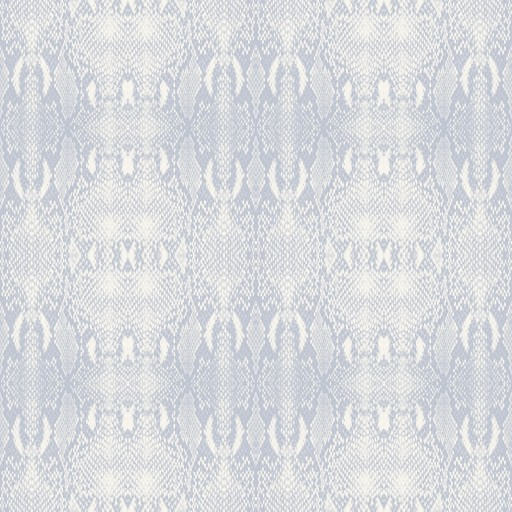
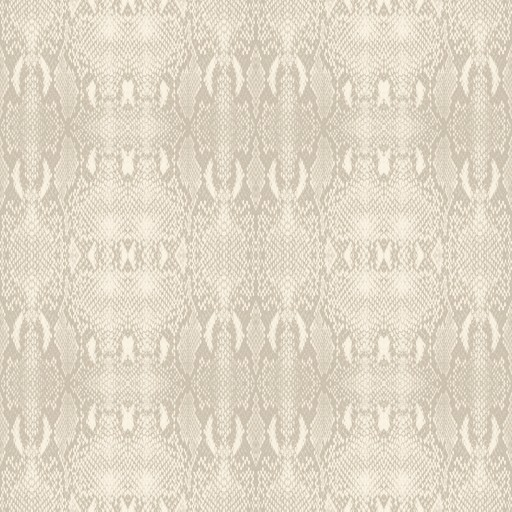
Make Shesha more lifelike
- Skin retinted from cool lavender to warm ivory with soft taupe markings
- The coil is a slightly flattened oval, flatter underneath, with finer
  scales, pale belly plates with dark seams, and soft bands along the back
- Real shadows: a warm key light from the side casts shadows from the
  hoods and coils onto the body (shadow maps on every device tier)
- Contact shadow baked into the geometry where one coil rests on
  another and where the necks rise out of the body; ambient light
  pulls less on Shesha, so his form reads
- A cool rim light from behind; the old blue fill is now neutral
- Quieter ruby gems, warmer eyes, natural mouth lines, fewer sparkles

diff --git a/js/cosmos.js b/js/cosmos.js
@@ -40,7 +40,7 @@ const rnd=(a,b)=>a+Math.random()*(b-a);
 // lights
 const ambient=new THREE.AmbientLight(0xffffff,.55); scene.add(ambient);
 const sunLight=new THREE.DirectionalLight(0xfff0d8,1.8); scene.add(sunLight);
-const fill=new THREE.PointLight(0x88aaff,600,140,1.6); fill.position.set(0,-310,40); scene.add(fill);
+const fill=new THREE.PointLight(0xd6deff,320,140,1.6); fill.position.set(0,-310,40); scene.add(fill);
 
 // ---- the real sky: NASA SVS Deep Star Maps 2020 (Hipparcos-2, Tycho-2, Gaia DR2) ----
 const NOISE=`
@@ -407,19 +407,37 @@ loka(-5*S,50,{A:'#d6fff6',B:'#2dd4bf',C:'#00302b',arms:5,twist:2.2,speed:-.005,d
 loka(-6*S,50,{A:'#ffc4b4',B:'#e02a2a',C:'#220004',arms:2,twist:4.4,speed:-.004,dust:.95,core:.7,bright:.5,hole:.1,seed:16,gems:50});
 loka(-7*S,50,{A:'#e6f6ff',B:'#4cc9ff',C:'#24104e',arms:3,twist:3.0,speed:-.004,dust:.7,core:.6,bright:.6,hole:.08,seed:17,gems:520});
 
-// Ananta Shesha. The seven hooded heads are cut from "King Cobra" by Anthony Yanez (CC BY 4.0) and retinted to moon-white;
+// Ananta Shesha. The seven hooded heads are cut from "King Cobra" by Anthony Yanez (CC BY 4.0) and retinted to ivory;
 // the coils are generated: one body that rises at the cosmic axis and tapers, turn by turn, to the tip of the tail.
 let sheshaTick=null;
 { const base=-8.5*S;
+  const camA=STOPS.find(s=>s.id==='shesha').ang, F=new THREE.Vector3(Math.sin(camA),0,Math.cos(camA)), side=new THREE.Vector3(F.z,0,-F.x);
   const NT={ skinA:tex('naga_skin_a',true), skinB:tex('naga_skin_b',true), norA:tex('naga_nor_a',false), norB:tex('naga_nor_b',false) };
-  const skin=(map,nor,color,glow=.07,side=THREE.FrontSide,bump=1.2)=>{
-    const o={ color, map, normalMap:nor, normalScale:new THREE.Vector2(bump,bump), roughness:.4, metalness:.06, envMap:goldEnv, envMapIntensity:.3,
-              emissive:new THREE.Color('#2c4386'), emissiveMap:map, emissiveIntensity:glow, side };
-    return lowTier ? new THREE.MeshStandardMaterial(o)
-      : new THREE.MeshPhysicalMaterial({ ...o, clearcoat:.45, clearcoatRoughness:.3, iridescence:.7, iridescenceIOR:1.3, iridescenceThicknessRange:[160,480],
-          sheen:.3, sheenRoughness:.5, sheenColor:new THREE.Color('#cfe8ff') }); };
-  const coilMat=skin(NT.skinA,NT.norA,'#b6c0d6');
-  const frontMat=skin(NT.skinA,NT.norA,'#c4cce0',.07,THREE.DoubleSide,.4), backMat=skin(NT.skinB,NT.norB,'#7f8eb8',.05,THREE.DoubleSide,.8), headMat=skin(NT.skinB,NT.norB,'#b4bed6',.07,THREE.DoubleSide,.8);
+  const SCUTES=12;   // belly plates per body-circumference of length
+  // snake skin: ivory scales under a light glossy coat. Each geometry also carries per-vertex contact shadow (ao),
+  // how much it faces down (belly), and distance along the body (along), which the shader uses for the belly plates and banding.
+  const skin=(map,nor,color,{side:sd=THREE.FrontSide,bump=1.1,coil=false}={})=>{
+    const o={ color, map, normalMap:nor, normalScale:new THREE.Vector2(bump,bump), roughness:.36, metalness:0, envMap:goldEnv, envMapIntensity:.26, side:sd };
+    const m = lowTier ? new THREE.MeshStandardMaterial(o)
+      : new THREE.MeshPhysicalMaterial({ ...o, clearcoat:.32, clearcoatRoughness:.24, iridescence:.2, iridescenceIOR:1.3, iridescenceThicknessRange:[220,420],
+          sheen:.16, sheenRoughness:.6, sheenColor:new THREE.Color('#f3e6cf') });
+    m.onBeforeCompile=sh=>{
+      sh.vertexShader=sh.vertexShader.replace('#include <common>','#include <common>\nattribute float ao, belly, along;\nvarying float vAo, vBelly, vAlong;')
+        .replace('#include <begin_vertex>','#include <begin_vertex>\nvAo=ao; vBelly=belly; vAlong=along;');
+      sh.fragmentShader=sh.fragmentShader.replace('#include <common>','#include <common>\nvarying float vAo, vBelly, vAlong;')
+        .replace('#include <map_fragment>',`#include <map_fragment>
+        ${coil?`{ float f=fract(vAlong*${SCUTES}.0), seam=smoothstep(0.0,0.14,f)*(1.0-smoothstep(0.84,1.0,f));
+          vec3 plate=vec3(0.93,0.89,0.80)*(0.74+0.26*seam);                                  // the wide belly plates, with dark seams between them
+          float band=smoothstep(0.3,0.7,0.5+0.5*sin(vAlong*0.85+2.0*sin(vAlong*0.21)));    // soft pale-and-taupe bands along the back
+          diffuseColor.rgb*=mix(1.0,0.8,band*(1.0-vBelly));
+          diffuseColor.rgb=mix(diffuseColor.rgb,plate,vBelly); }`:''}`)
+        .replace('#include <aomap_fragment>','#include <aomap_fragment>\n  reflectedLight.indirectDiffuse*=vAo*0.7; reflectedLight.indirectSpecular*=mix(1.0,vAo,0.7);');
+    };
+    m.customProgramCacheKey=()=>coil?'naga-coil':'naga';   // the coil's shader differs from the heads'
+    return m; };
+  const coilMat=skin(NT.skinA,NT.norA,'#cfc5b2',{coil:true});
+  const frontMat=skin(NT.skinA,NT.norA,'#d8cfbe',{side:THREE.DoubleSide,bump:.45}), backMat=skin(NT.skinB,NT.norB,'#a8987f',{side:THREE.DoubleSide,bump:.8}),
+        headMat=skin(NT.skinB,NT.norB,'#c7bba6',{side:THREE.DoubleSide,bump:.8});
 
   // the body: up the axis from the neck, then spiralling outward and down
   const TOP=base+13, HS=1.3, cp=[new THREE.Vector3(0,TOP,0),new THREE.Vector3(0,TOP-4.5,0),new THREE.Vector3(3,base+4.2,1.8)];
@@ -429,38 +447,64 @@ let sheshaTick=null;
   const radiusAt=s=>{ const cap=3, R0=5.6, neck=16, R1=4; if(s<cap) return R0*Math.sqrt(Math.max(0,1-((cap-s)/cap)**2));
     if(s<neck) return R0+(R1-R0)*(s-cap)/(neck-cap);
     const u=(s-neck)/(LEN-neck); return u<.86 ? R1-(R1-2.2)*u/.86 : 2.2*Math.pow(Math.max(0,1-(u-.86)/.14),.7)+.06; };
-  function taperTube(segs,radial,k){
-    const fr=curve.computeFrenetFrames(segs,false), P=new THREE.Vector3(), N=new THREE.Vector3(), n=(segs+1)*(radial+1);
-    const pos=new Float32Array(n*3), nor=new Float32Array(n*3), uv=new Float32Array(n*2), idx=[]; let along=0, prev=0;
-    for(let i=0;i<=segs;i++){ const t=i/segs, s=t*LEN, r=radiusAt(s); along+=(s-prev)/(2*Math.PI*Math.max(r,1.2))*k; prev=s; curve.getPointAt(t,P);
-      for(let j=0;j<=radial;j++){ const v=j/radial*Math.PI*2, o=i*(radial+1)+j;
-        N.copy(fr.normals[i]).multiplyScalar(-Math.cos(v)).addScaledVector(fr.binormals[i],Math.sin(v)).normalize();
-        pos[o*3]=P.x+N.x*r; pos[o*3+1]=P.y+N.y*r; pos[o*3+2]=P.z+N.z*r; nor[o*3]=N.x; nor[o*3+1]=N.y; nor[o*3+2]=N.z; uv[o*2]=j/radial; uv[o*2+1]=along; } }
+  // a slightly flattened body, flatter still underneath, with its belly turned down on the coils and toward the viewer
+  // where the body rears up (as a cobra's does)
+  function coilGeometry(segs,radial,kTex){
+    const P=new THREE.Vector3(), T=new THREE.Vector3(), D=new THREE.Vector3(), U=new THREE.Vector3(), W=new THREE.Vector3(), N=new THREE.Vector3(), DOWN=new THREE.Vector3(0,-1,0);
+    const n=(segs+1)*(radial+1), pos=new Float32Array(n*3), nor=new Float32Array(n*3), uv=new Float32Array(n*2), alg=new Float32Array(n), bel=new Float32Array(n), idx=[];
+    const spine=[]; let along=0, prev=0;
+    for(let i=0;i<=segs;i++){ const t=i/segs, s=t*LEN, r=radiusAt(s); along+=(s-prev)/(2*Math.PI*Math.max(r,1.2)); prev=s;
+      curve.getPointAt(t,P); curve.getTangentAt(t,T); spine.push([P.x,P.y,P.z,r,s]);
+      D.copy(DOWN).lerp(F,THREE.MathUtils.smoothstep(Math.abs(T.y),.55,.9)).normalize();
+      U.copy(D).addScaledVector(T,-D.dot(T)).normalize().negate(); W.crossVectors(T,U).normalize();
+      for(let j=0;j<=radial;j++){ const v=j/radial*Math.PI*2, cx=Math.cos(v), sy=Math.sin(v), o=i*(radial+1)+j;
+        const w=r*1.1, h=r*(sy<0?.8:.92);
+        pos[o*3]=P.x+W.x*cx*w+U.x*sy*h; pos[o*3+1]=P.y+W.y*cx*w+U.y*sy*h; pos[o*3+2]=P.z+W.z*cx*w+U.z*sy*h;
+        N.copy(W).multiplyScalar(cx/w).addScaledVector(U,sy/h).normalize(); nor[o*3]=N.x; nor[o*3+1]=N.y; nor[o*3+2]=N.z;
+        uv[o*2]=j/radial*2; uv[o*2+1]=along*kTex; alg[o]=along; bel[o]=THREE.MathUtils.smoothstep(-sy,.5,.88); } }
     for(let i=0;i<segs;i++) for(let j=0;j<radial;j++){ const a=i*(radial+1)+j, b=a+radial+1; idx.push(a,b,a+1, b,b+1,a+1); }
+    // contact shadow: darken skin that sits close to another stretch of the body (one turn resting on the next)
+    const ao=new Float32Array(n), M=spine.filter((_,i)=>i%2===0);
+    for(let o=0;o<n;o++){ const i=Math.floor(o/(radial+1)), si=spine[i][4], ri=spine[i][3], x=pos[o*3], y=pos[o*3+1], z=pos[o*3+2]; let gap=1e9;
+      for(const c of M){ if(Math.abs(c[4]-si)<ri*3+5) continue; const dx=x-c[0], dy=y-c[1], dz=z-c[2], g=Math.sqrt(dx*dx+dy*dy+dz*dz)-c[3]*1.05; if(g<gap) gap=g; }
+      ao[o]=.32+.68*THREE.MathUtils.smoothstep(gap,0,4.5)*(1-.25*bel[o]); }
     const g=new THREE.BufferGeometry(); g.setAttribute('position',new THREE.BufferAttribute(pos,3)); g.setAttribute('normal',new THREE.BufferAttribute(nor,3));
-    g.setAttribute('uv',new THREE.BufferAttribute(uv,2)); g.setIndex(idx); return g; }
-  scene.add(new THREE.Mesh(taperTube(lowTier?600:1100,lowTier?14:22,1.1),coilMat));
-  const sp=[],sc=[]; const A=new THREE.Color('#9fe8ff'),B=new THREE.Color('#ffffff'), P=new THREE.Vector3();
-  for(let i=0;i<700;i++){ const t=Math.random(), r=radiusAt(t*LEN)+1.6; curve.getPointAt(t,P); sp.push(P.x+rnd(-r,r),P.y+rnd(-r,r),P.z+rnd(-r,r)); const c=A.clone().lerp(B,Math.random()); sc.push(c.r,c.g,c.b); }
-  scene.add(makePoints(sp,sc,.4,.3));
-  const halo=sprite('#9fe8ff',95,.06); halo.position.set(0,base,0); scene.add(halo);
+    g.setAttribute('uv',new THREE.BufferAttribute(uv,2)); g.setAttribute('along',new THREE.BufferAttribute(alg,1)); g.setAttribute('belly',new THREE.BufferAttribute(bel,1));
+    g.setAttribute('ao',new THREE.BufferAttribute(ao,1)); g.setIndex(idx); return g; }
+  const coil=new THREE.Mesh(coilGeometry(lowTier?600:1100,lowTier?16:28,2.2),coilMat); coil.castShadow=coil.receiveShadow=true; scene.add(coil);
+  const sp=[],sc=[]; const A=new THREE.Color('#fff1d8'),B=new THREE.Color('#ffffff'), P=new THREE.Vector3();
+  for(let i=0;i<500;i++){ const t=Math.random(), r=radiusAt(t*LEN)+1.6; curve.getPointAt(t,P); sp.push(P.x+rnd(-r,r),P.y+rnd(-r,r),P.z+rnd(-r,r)); const c=A.clone().lerp(B,Math.random()); sc.push(c.r,c.g,c.b); }
+  scene.add(makePoints(sp,sc,.35,.16));
+  const halo=sprite('#ffe9c4',95,.04); halo.position.set(0,base,0); scene.add(halo);
+
+  // light for Shesha alone: a warm key from above and in front that casts real shadows (the hoods shade the body, the coils
+  // shade one another), and a cool rim from behind that traces his outline against the dark
+  renderer.shadowMap.enabled=true; renderer.shadowMap.type=THREE.PCFSoftShadowMap;
+  const key=new THREE.SpotLight(0xffeed4,1.5,0,.62,.55,0);
+  key.position.set(F.x*22+side.x*88,base+100,F.z*22+side.z*88); key.target.position.set(0,base+8,0); scene.add(key,key.target);
+  key.castShadow=true; key.shadow.mapSize.set(lowTier?1024:2048,lowTier?1024:2048); key.shadow.camera.near=60; key.shadow.camera.far=220;
+  key.shadow.bias=-.0003; key.shadow.normalBias=.06;
+  const rim=new THREE.PointLight(0xaec6ff,700,170,1.6); rim.position.set(-F.x*58,base+38,-F.z*58); scene.add(rim);
 
   // seven hooded heads fan out of the neck, facing the viewer at this stop, each with a jewel on its hood
-  const camA=STOPS.find(s=>s.id==='shesha').ang, F=new THREE.Vector3(Math.sin(camA),0,Math.cos(camA)), side=new THREE.Vector3(F.z,0,-F.x);
-  const gemGeo=new THREE.OctahedronGeometry(.55,0), gemMat=new THREE.MeshStandardMaterial({color:'#8a0a1e',emissive:'#e0102c',emissiveIntensity:1.15,metalness:.2,roughness:.12,envMap:goldEnv,envMapIntensity:1});
-  const eyeMat=new THREE.MeshBasicMaterial({color:new THREE.Color(2.6,1.8,.45)}), mouthMat=new THREE.MeshStandardMaterial({color:'#3a4566',roughness:.5});
+  const gemGeo=new THREE.OctahedronGeometry(.5,0), gemMat=new THREE.MeshStandardMaterial({color:'#6e0616',emissive:'#c20c26',emissiveIntensity:.75,metalness:.1,roughness:.1,envMap:goldEnv,envMapIntensity:1.2});
+  const eyeMat=new THREE.MeshBasicMaterial({color:new THREE.Color(2.1,1.45,.38)}), mouthMat=new THREE.MeshStandardMaterial({color:'#4a3a2e',roughness:.6});
   const dec=(b,T)=>{ const s=atob(b), u=new Uint8Array(s.length); for(let i=0;i<s.length;i++) u[i]=s.charCodeAt(i); return new T(u.buffer); };
   fetch('assets/models/shesha_hood.json').then(r=>{ if(!r.ok) throw new Error(r.status); return r.json(); }).then(M=>{
     const MATS={front:frontMat,back:backMat,head:headMat,eyes:eyeMat,mouth:mouthMat};
-    const parts=M.meshes.map(m=>{ const g=new THREE.BufferGeometry();
-      g.setAttribute('position',new THREE.BufferAttribute(dec(m.pos,Float32Array),3)); g.setAttribute('normal',new THREE.BufferAttribute(dec(m.nor,Float32Array),3));
-      g.setAttribute('uv',new THREE.BufferAttribute(dec(m.uv,Float32Array),2)); g.setIndex(new THREE.BufferAttribute(dec(m.idx,Uint16Array),1)); return [g,MATS[m.name]]; });
+    const parts=M.meshes.map(m=>{ const g=new THREE.BufferGeometry(), p=dec(m.pos,Float32Array), cnt=p.length/3;
+      g.setAttribute('position',new THREE.BufferAttribute(p,3)); g.setAttribute('normal',new THREE.BufferAttribute(dec(m.nor,Float32Array),3));
+      g.setAttribute('uv',new THREE.BufferAttribute(dec(m.uv,Float32Array),2)); g.setIndex(new THREE.BufferAttribute(dec(m.idx,Uint16Array),1));
+      // necks darken where they rise out of the body; no belly plates or bands on the hoods
+      const ao=new Float32Array(cnt); for(let i=0;i<cnt;i++) ao[i]=.42+.58*THREE.MathUtils.smoothstep(p[i*3+1],.5,6);
+      g.setAttribute('ao',new THREE.BufferAttribute(ao,1)); g.setAttribute('belly',new THREE.BufferAttribute(new Float32Array(cnt),1)); g.setAttribute('along',new THREE.BufferAttribute(new Float32Array(cnt),1));
+      return [g,MATS[m.name],m.name]; });
     const jf=M.hoodFront, heads=[];
     for(let k=-3;k<=3;k++){ const ak=Math.abs(k), outer=new THREE.Group(), inner=new THREE.Group();
-      parts.forEach(([g,m])=>inner.add(new THREE.Mesh(g,m)));
+      parts.forEach(([g,m,name])=>{ const mesh=new THREE.Mesh(g,m); mesh.castShadow=name!=='eyes'; mesh.receiveShadow=true; inner.add(mesh); });
       inner.rotation.set(-.12,0,-.174);                       // stand the cut neck upright: the original leans forward and a little to one side
-      const gem=new THREE.Mesh(gemGeo,gemMat); gem.position.set(jf[0],jf[1],jf[2]+.25); gem.scale.set(1,1.3,.6); inner.add(gem);
-      inner.add(makePoints([jf[0],jf[1],jf[2]+.6],[2.0,.16,.1],2.6,.55));
+      const gem=new THREE.Mesh(gemGeo,gemMat); gem.position.set(jf[0],jf[1],jf[2]+.25); gem.scale.set(.9,1.2,.55); inner.add(gem);
+      inner.add(makePoints([jf[0],jf[1],jf[2]+.6],[1.8,.14,.1],2.2,.35));
       outer.add(inner);
       outer.position.set(0,TOP-(3.4+ak*.6)*HS,0).addScaledVector(side,k*.65*HS).addScaledVector(F,(.6-ak*1.1)*HS);
       const rx=ak*.05, rz=-k*.34; outer.rotation.set(rx,camA+k*.09,rz,'YXZ'); outer.scale.setScalar(HS*(1-ak*.06));

diff --git a/tools/cobra_export.py b/tools/cobra_export.py
@@ -52,7 +52,7 @@ js = json.dumps(out, separators=(',', ':'))
 open(out_dir + '/shesha_hood.json', 'w').write(js)
 print('json bytes', len(js))
 
-# textures: python skin -> pale moon-white with a slate-blue pattern; normals kept as they are
+# textures: python skin -> warm ivory with soft taupe markings, like a pale cobra; normals kept as they are
 def retint(path, dst, lo, hi):
     im = np.asarray(Image.open(path).convert('RGB')).astype(np.float32) / 255.0
     L = im @ np.array([0.299, 0.587, 0.114], np.float32)
@@ -62,8 +62,8 @@ def retint(path, dst, lo, hi):
     rgb = np.array(lo, np.float32) * (1 - t[..., None]) + np.array(hi, np.float32) * t[..., None]
     Image.fromarray((np.clip(rgb, 0, 1) * 255 + 0.5).astype(np.uint8)).save(dst, quality=90)
 T = src + '/textures/'
-retint(T + '13_-_Default_baseColor.jpeg', tex_dir + '/naga_skin_a.jpg', (0.50, 0.56, 0.70), (0.97, 0.96, 0.93))
-retint(T + '08_-_Default_baseColor.jpeg', tex_dir + '/naga_skin_b.jpg', (0.44, 0.50, 0.64), (0.94, 0.94, 0.93))
+retint(T + '13_-_Default_baseColor.jpeg', tex_dir + '/naga_skin_a.jpg', (0.60, 0.54, 0.45), (0.98, 0.95, 0.89))
+retint(T + '08_-_Default_baseColor.jpeg', tex_dir + '/naga_skin_b.jpg', (0.50, 0.45, 0.38), (0.95, 0.92, 0.86))
 for s, d in (('13', 'naga_nor_a'), ('08', 'naga_nor_b')):
     Image.open(T + s + '_-_Default_normal.png').convert('RGB').save(tex_dir + '/' + d + '.jpg', quality=92)
 print('textures written')
